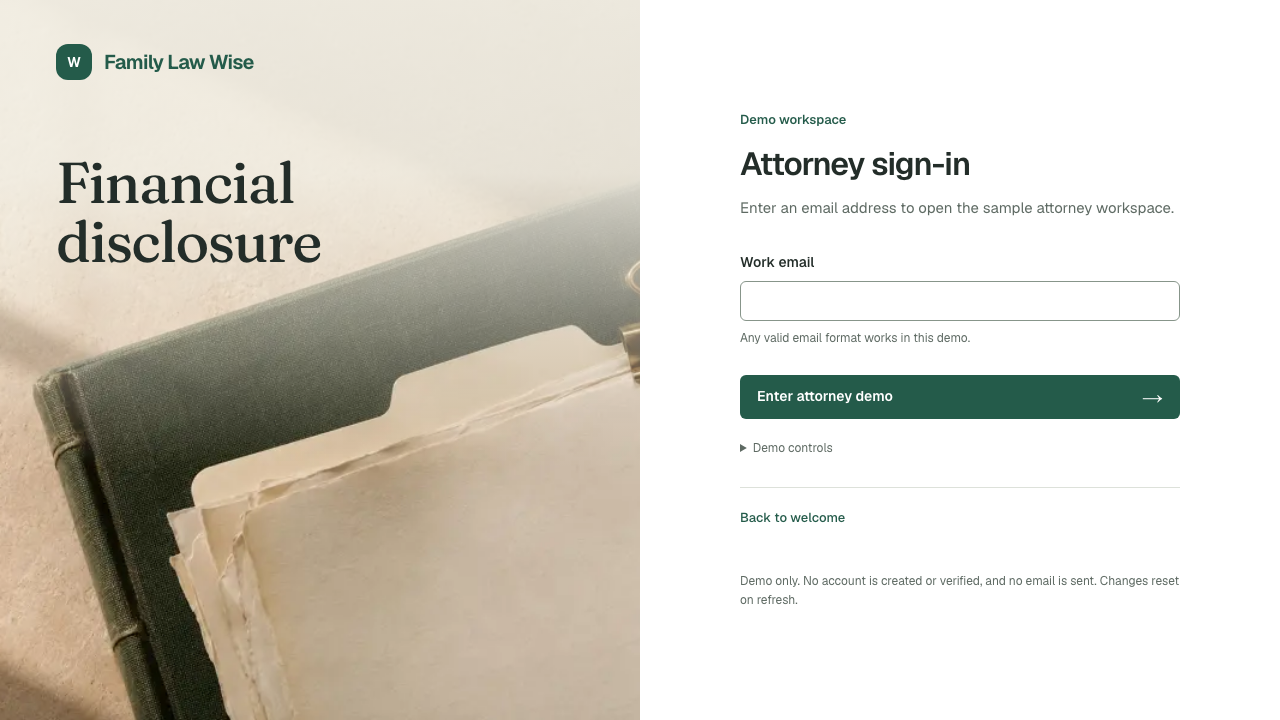
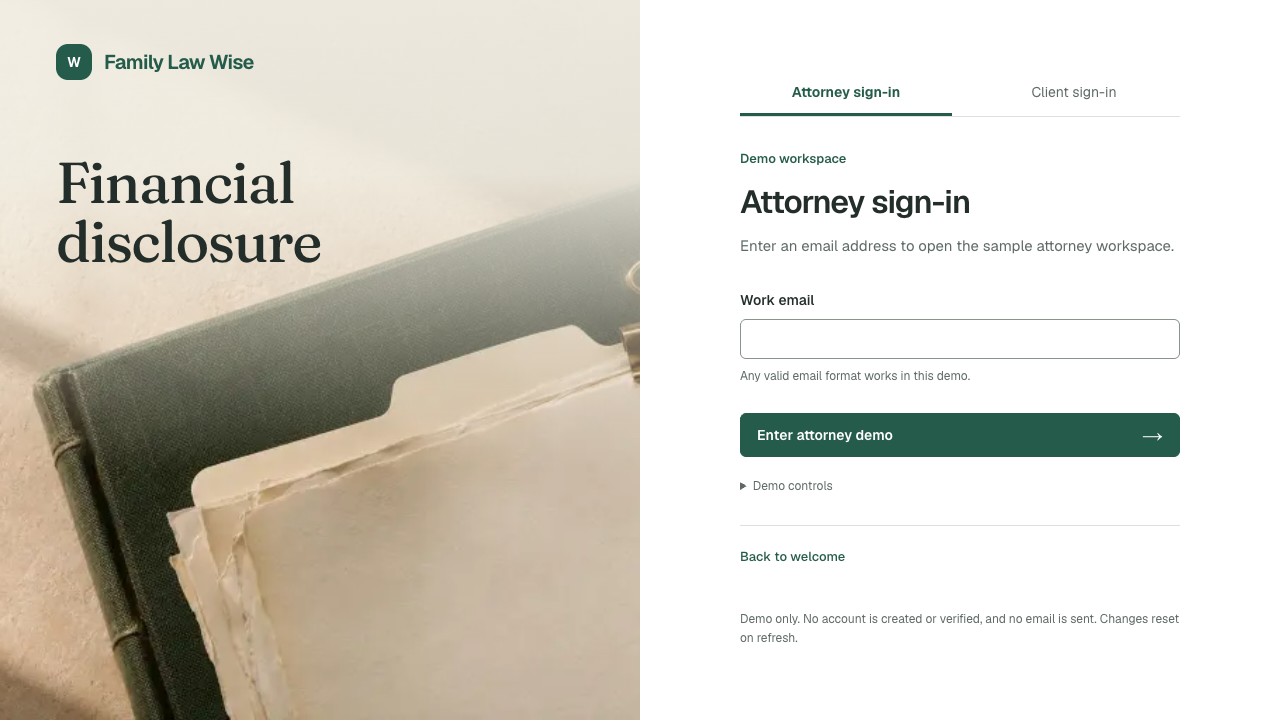
DESK-03 document role entry and returning-client desktop evidence
Completed: capture authentic aadd27b public and attorney baselines before edits; add matched desktop role-entry comparisons and new returning-client email, code, validation, expiry/reset, recovery and matter-choice evidence. Refresh attorney after images and label historical invitation evidence with provenance.

Verification: final Chromium 147 production-build captures at 1440x900 and 1280x720, 100% zoom; John matching portal at both sizes; synthetic matter prepared through normal UI for chooser; no page or console errors, no horizontal overflow; evidence paths and image dimensions checked; git diff --check passed.

Remaining: production identity/session verification, OTP issuance, email delivery and server-side own-matter authorization remain backend-owner dependencies. Evidence covers frontend demo behavior only.

diff --git a/.github/review-evidence/DESK-03/README.md b/.github/review-evidence/DESK-03/README.md
@@ -1,6 +1,43 @@
 # DESK-03 — demo entry forms
 
-Authentic before captures were taken on unmodified base `b31143451826e0aa2de7d1a98a91f9ec352d0f5c` before editing either component. After captures show the source delivered with this evidence. No baseline was reconstructed.
+## Latest revision — 2026-11-11: role choices and returning client
+
+Source: `99820e5432bdbd3caf736792ceae77190602839d`. The public `/` entry now offers Attorney and Client sign-in. Both sign-in forms expose the same role choices. New `/client/sign-in` supports returning-client email, sample-code, validation, expiry/reset, generic recovery and matching own-matter selection in the existing browser-memory demo.
+
+Before captures in `client-return/before-*.png` were taken from the clean, unmodified `aadd27b191ff12031534fec26c52cb8229f16f3b` production build before the first edit. After captures use the final production build at the source commit above. The new client route had no prior screen: its baseline is the actual public `/` entry, explicitly shown below; no old client sign-in was reconstructed.
+
+- DESK-03; roles: attorney and attorney's own client. Desktop Chromium 147.0.7727.15, device scale 1, 100% zoom; main 1440×900 and compact 1280×720.
+- All images start at scroll (0, 0). Public/attorney initial pairs focus `body`; attorney validation/retry pairs focus `attorney-email` (retry has Demo controls open). New client email/code states focus the corresponding field; recovery/chooser focus `entry-title`.
+- Synthetic data only: seeded John Smith / john.smith@example.com and unknown@example.com for recovery. Chooser uses an additional John Smith v. Taylor Demo matter, created and invited through the ordinary attorney UI in the same browser session.
+- Four legacy `after-attorney-*.png` files are refreshed to include the role selector. Existing invitation images remain the unchanged invitation composition from `aadd27b`; its historical evidence and original baseline are retained below.
+
+| Changed screen/state | Authentic before | Latest after |
+| --- | --- | --- |
+| Public role choices · 1440×900 | [Before `/`](client-return/before-role-selection-1440x900.png) | [After `/`](client-return/after-role-selection-1440x900.png) |
+| Public role choices · 1280×720 | [Before `/`](client-return/before-role-selection-1280x720.png) | [After `/`](client-return/after-role-selection-1280x720.png) |
+| Attorney sign-in · 1440×900 | [Before](client-return/before-attorney-sign-in-1440x900.png) | [After](after-attorney-empty-1440.png) |
+| Attorney sign-in · 1280×720 | [Before](client-return/before-attorney-sign-in-1280x720.png) | [After](after-attorney-empty-1280.png) |
+| Attorney required email · 1440×900 | [Before](client-return/before-attorney-invalid-1440x900.png) | [After](after-attorney-invalid-1440.png) |
+| Attorney simulated retry · 1440×900 | [Before](client-return/before-attorney-retry-1440x900.png) | [After](after-attorney-retry-1440.png) |
+| New client email · 1440×900 | [Existing entry `/` (new-route baseline)](client-return/before-role-selection-1440x900.png) | [Client email](client-return/after-client-email-1440x900.png) |
+| New client email · 1280×720 | [Existing entry `/` (new-route baseline)](client-return/before-role-selection-1280x720.png) | [Client email](client-return/after-client-email-1280x720.png) |
+
+| New client state | 1440×900 | 1280×720 |
+| --- | --- | --- |
+| Email validation | [Required-email error](client-return/after-client-email-invalid-1440x900.png) | — |
+| Code entry | [Code entry](client-return/after-client-code-1440x900.png) | [Code entry](client-return/after-client-code-1280x720.png) |
+| Code validation | [Empty](client-return/after-client-code-empty-1440x900.png), [Wrong](client-return/after-client-code-wrong-1440x900.png) | — |
+| Code expiry / reset | [Expired](client-return/after-client-code-expired-1440x900.png), [Reset](client-return/after-client-code-reset-1440x900.png) | — |
+| Generic recovery | [Recovery](client-return/after-client-recovery-1440x900.png) | [Recovery](client-return/after-client-recovery-1280x720.png) |
+| Multiple matching matters | [Chooser](client-return/after-client-choose-matter-1440x900.png) | [Chooser](client-return/after-client-choose-matter-1280x720.png) |
+
+The role choice makes client access findable from the public and attorney entry. Returning clients have a focused email/code task and adjacent recovery without needing to locate the original invitation. The compact code task includes its primary action, reset, return action and full demo disclosure within 1280×720.
+
+Browser verification for this evidence exercised email validation; empty/wrong code; expiry/reset; valid John code to `/portal/matter-john` at both desktop sizes; generic unmatched-email recovery; and the chooser after preparing a second invitation through normal UI. All 19 after captures had meaningful page content, no framework overlay, no browser page errors or console errors, and no horizontal overflow. Regular local Playwright was used because the Browser plugin/skill was not available. Capture scripts and raw logs remain outside the repository. Screenshots do not prove production identity verification or server authorization.
+
+## Earlier DESK-03 visual evidence
+
+Authentic before captures were taken on unmodified base `b31143451826e0aa2de7d1a98a91f9ec352d0f5c` before editing either component. The original invitation after captures show the aadd27b visual revision; attorney after captures were refreshed as recorded above. No baseline was reconstructed.
 
 - Browser: desktop Chromium 147.0.7727.15, device scale factor 1, 100% zoom.
 - Main pair: 1440×900. Compact pair: 1280×720.
@@ -8,7 +45,7 @@ Authentic before captures were taken on unmodified base `b31143451826e0aa2de7d1a
 - Data: synthetic Hartwell Family Law / Smith divorce / John Smith / john.smith@example.com; attorney entry uses eric@example.com. No real user records.
 - Routes: `/sign-in`, `/invite/matter-john`, `/invite/invalid-token`.
 
-## Before / After
+## Original ticket baseline / delivered UI
 
 | State | Before | After |
 | --- | --- | --- |
@@ -29,9 +66,9 @@ The attorney entry now uses a two-column desktop composition: the existing W bra
 
 The invitation uses the same split, with the actual shared-store firm, matter and recipient on the left and the code/request/error/recovery task on the right. Missing invitations have specific recovery guidance. Nothing adds authentication or email delivery.
 
-The earlier PR revision is preserved in immutable commit `b71645b43f28ba0db016ff883aeec32a2bec1a51`: its `after-*.png` files are the last-reviewed comparison. Before these edits, a fresh 12-state browser capture of that clean revision matched those committed PNGs byte for byte. Duplicate captures were discarded; the original baseline images remain unchanged. The current `after-*.png` files show the revised source.
+The earlier PR revision is preserved in immutable commit `b71645b43f28ba0db016ff883aeec32a2bec1a51`: its `after-*.png` files are the last-reviewed comparison. Before these edits, a fresh 12-state browser capture of that clean revision matched those committed PNGs byte for byte. Duplicate captures were discarded; the original baseline images remain unchanged. The invitation `after-*.png` files retain that revision; attorney after images are refreshed as recorded in the latest section.
 
-## Verification
+## Earlier verification (aadd27b revision)
 
 - `npm test`: 43 passed.
 - `npm run lint`, `npm run build`, `git diff --check`: passed.
